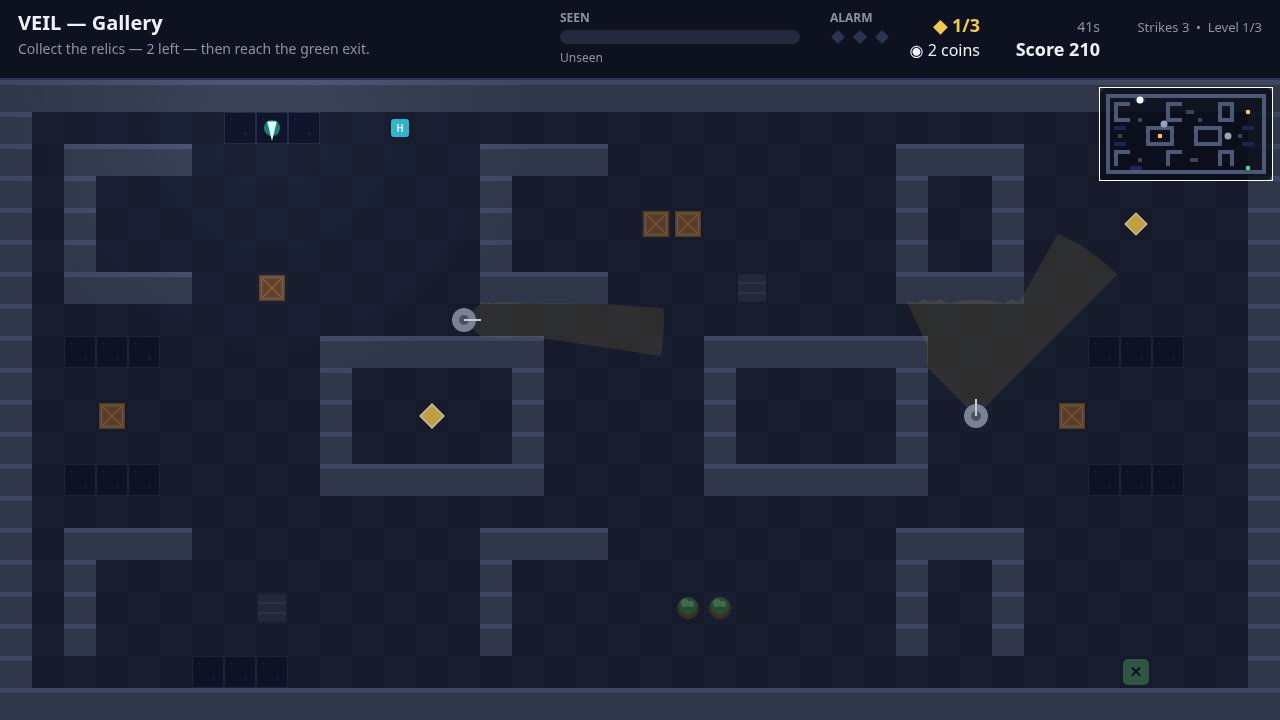
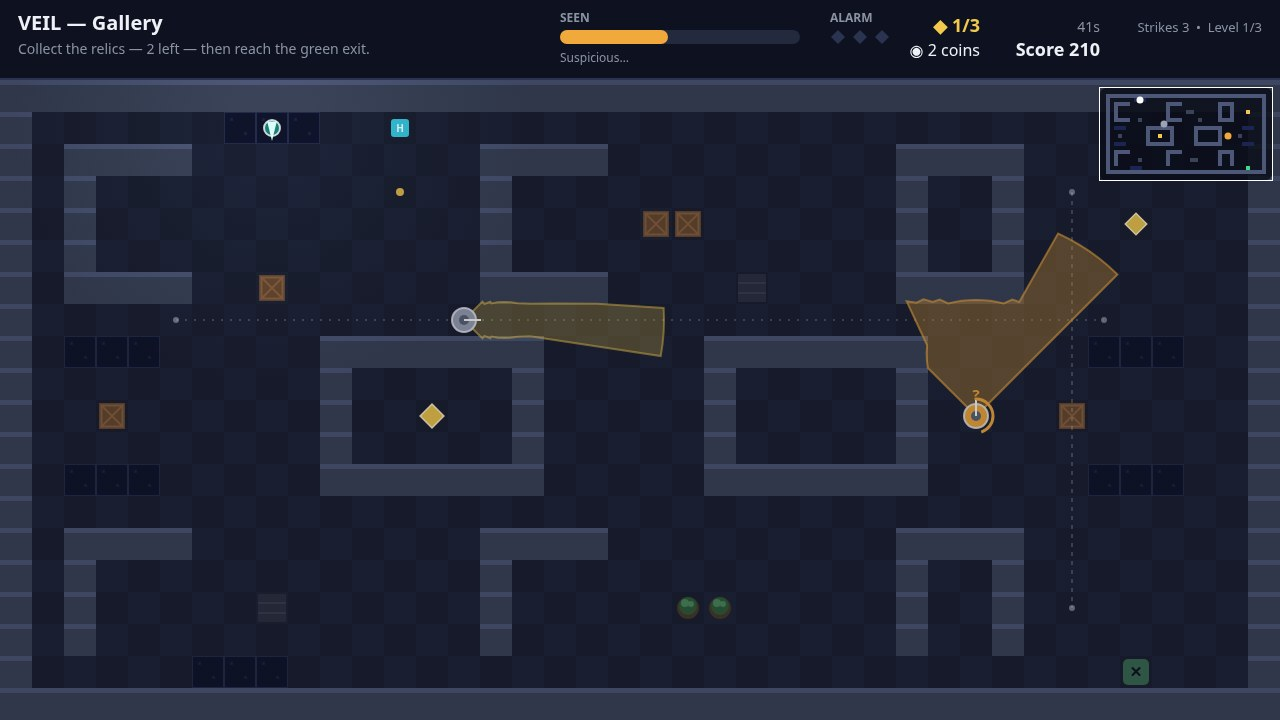
VEIL v2: brighter vision cones, patrol routes, restaged screenshots
* Add files via upload

* Add files via upload

Changed region(s): [[0.6875, 0.3056, 0.875, 0.6111], [0.3438, 0.3972, 0.5312, 0.4889], [0.4375, 0.0306, 0.5312, 0.0917]]

diff --git a/game/src/render.js b/game/src/render.js
@@ -40,11 +40,20 @@ const PALETTE = {
 };
 
 const CONE_COLOR = {
-  patrol: 'rgba(242, 201, 76, 0.14)',
-  suspicious: 'rgba(242, 169, 59, 0.22)',
-  alert: 'rgba(229, 83, 75, 0.26)',
-  search: 'rgba(242, 169, 59, 0.18)',
-  return: 'rgba(242, 201, 76, 0.14)',
+  patrol: 'rgba(242, 201, 76, 0.30)',
+  suspicious: 'rgba(242, 169, 59, 0.38)',
+  alert: 'rgba(229, 83, 75, 0.45)',
+  search: 'rgba(242, 169, 59, 0.34)',
+  return: 'rgba(242, 201, 76, 0.30)',
+};
+
+// The cone's rim: a bright edge so the sweep reads even at a glance.
+const CONE_EDGE = {
+  patrol: 'rgba(242, 201, 76, 0.55)',
+  suspicious: 'rgba(242, 169, 59, 0.65)',
+  alert: 'rgba(229, 83, 75, 0.75)',
+  search: 'rgba(242, 169, 59, 0.60)',
+  return: 'rgba(242, 201, 76, 0.55)',
 };
 
 const GUARD_COLOR = {
@@ -189,6 +198,30 @@ export function createRenderer(canvas) {
     }
   }
 
+  function drawPatrolRoutes(game) {
+    // Dotted patrol routes: the guard's walk, readable before it happens,
+    // so a level teaches its own timing at a glance.
+    for (const guard of game.guards) {
+      const pts = guard.waypoints;
+      if (!pts || pts.length < 2) continue;
+      ctx.strokeStyle = 'rgba(238, 241, 245, 0.30)';
+      ctx.lineWidth = 1.5;
+      ctx.setLineDash([2, 7]);
+      ctx.beginPath();
+      ctx.moveTo(pts[0].x, pts[0].y);
+      for (let i = 1; i < pts.length; i++) ctx.lineTo(pts[i].x, pts[i].y);
+      ctx.closePath();
+      ctx.stroke();
+      ctx.setLineDash([]);
+      ctx.fillStyle = 'rgba(238, 241, 245, 0.45)';
+      for (const p of pts) {
+        ctx.beginPath();
+        ctx.arc(p.x, p.y, 3, 0, Math.PI * 2);
+        ctx.fill();
+      }
+    }
+  }
+
   function drawCones(game) {
     for (const guard of game.guards) {
       const poly = guard.conePolygon(game);
@@ -198,6 +231,9 @@ export function createRenderer(canvas) {
       ctx.closePath();
       ctx.fillStyle = CONE_COLOR[guard.state] || CONE_COLOR.patrol;
       ctx.fill();
+      ctx.strokeStyle = CONE_EDGE[guard.state] || CONE_EDGE.patrol;
+      ctx.lineWidth = 2;
+      ctx.stroke();
     }
   }
 
@@ -207,6 +243,10 @@ export function createRenderer(canvas) {
       ctx.beginPath();
       ctx.arc(guard.x, guard.y, 12, 0, Math.PI * 2);
       ctx.fill();
+      // Pale rim so a guard reads against any floor, lit or dark.
+      ctx.strokeStyle = 'rgba(238, 241, 245, 0.85)';
+      ctx.lineWidth = 2;
+      ctx.stroke();
       ctx.fillStyle = PALETTE.guardDark;
       ctx.beginPath();
       ctx.arc(guard.x, guard.y, 5, 0, Math.PI * 2);
@@ -250,6 +290,9 @@ export function createRenderer(canvas) {
     ctx.beginPath();
     ctx.arc(p.x, p.y, r, 0, Math.PI * 2);
     ctx.fill();
+    ctx.strokeStyle = 'rgba(238, 241, 245, 0.85)';
+    ctx.lineWidth = 2;
+    ctx.stroke();
     ctx.beginPath();
     ctx.moveTo(p.x + Math.cos(p.facing) * (r + 5), p.y + Math.sin(p.facing) * (r + 5));
     ctx.lineTo(p.x + Math.cos(p.facing + 2.5) * r, p.y + Math.sin(p.facing + 2.5) * r);
@@ -452,6 +495,7 @@ export function createRenderer(canvas) {
       ctx.translate(0, HUD_H);
       drawFloor(game.level);
       drawCover(game.level);
+      drawPatrolRoutes(game);
       drawCones(game);
       drawLootExitPanels(game);
       drawGuards(game);
@@ -490,6 +534,7 @@ export function createRenderer(canvas) {
     ctx.translate(0, HUD_H);
     drawFloor(game.level);
     drawCover(game.level);
+    drawPatrolRoutes(game);
     drawCones(game);
     drawLootExitPanels(game);
     drawGuards(game);

diff --git a/game/src/shots.js b/game/src/shots.js
@@ -10,7 +10,7 @@
 //   chase   — a near miss: a red cone, the meter nearly full, a guard closing in
 //   mission — the Rooftop level, every relic taken, Wren at the open exit
 
-import { STATE_ALERT, STATE_PATROL } from './guards.js';
+import { STATE_ALERT, STATE_PATROL, STATE_SUSPICIOUS } from './guards.js';
 import { tileCenterX, tileCenterY } from './level.js';
 
 function placeGuard(game, index, cx, cy, facing) {
@@ -43,7 +43,7 @@ export function stageShot(name, game) {
     for (const item of game.level.loot) item.taken = true;
     game.score = 2450;
     game.levelTime = 187;
-    placePlayer(game, 35, 18, 0, false);
+    placePlayer(game, 34, 18, 0, false);
     placeGuard(game, 0, 20, 2, Math.PI / 2);
     placeGuard(game, 1, 12, 10, 0);
     placeGuard(game, 2, 8, 8, Math.PI / 4);
@@ -58,11 +58,13 @@ export function stageShot(name, game) {
     game.levelTime = 64;
     game.strikes = 3;
     placePlayer(game, 20, 12, Math.PI, false);
-    const guard = placeGuard(game, 0, 17, 12, 0);
+    const guard = placeGuard(game, 0, 18, 12, 0);
     guard.state = STATE_ALERT;
-    guard.meter = 0.85;
+    guard.meter = 0.88;
     guard.lastSeen = { x: game.player.x, y: game.player.y };
-    placeGuard(game, 1, 33, 6, Math.PI / 2);
+    const guard2 = placeGuard(game, 1, 24, 9, 2.5);
+    guard2.state = STATE_SUSPICIOUS;
+    guard2.meter = 0.5;
     game.alarm = 1;
     game.ghost = false;
     return 'play';
@@ -75,9 +77,12 @@ export function stageShot(name, game) {
     game.strikes = 3;
     game.level.loot[0].taken = true;
     game.player.coins = 2;
+    game.coinMarks = [{ x: tileCenterX(12), y: tileCenterY(3) }];
     placePlayer(game, 8, 1, Math.PI / 2, true);
     placeGuard(game, 0, 14, 7, 0);
-    placeGuard(game, 1, 30, 10, -Math.PI / 2);
+    const guard2 = placeGuard(game, 1, 30, 10, -Math.PI / 2);
+    guard2.state = STATE_SUSPICIOUS;
+    guard2.meter = 0.45;
     game.alarm = 0;
     return 'play';
   }
